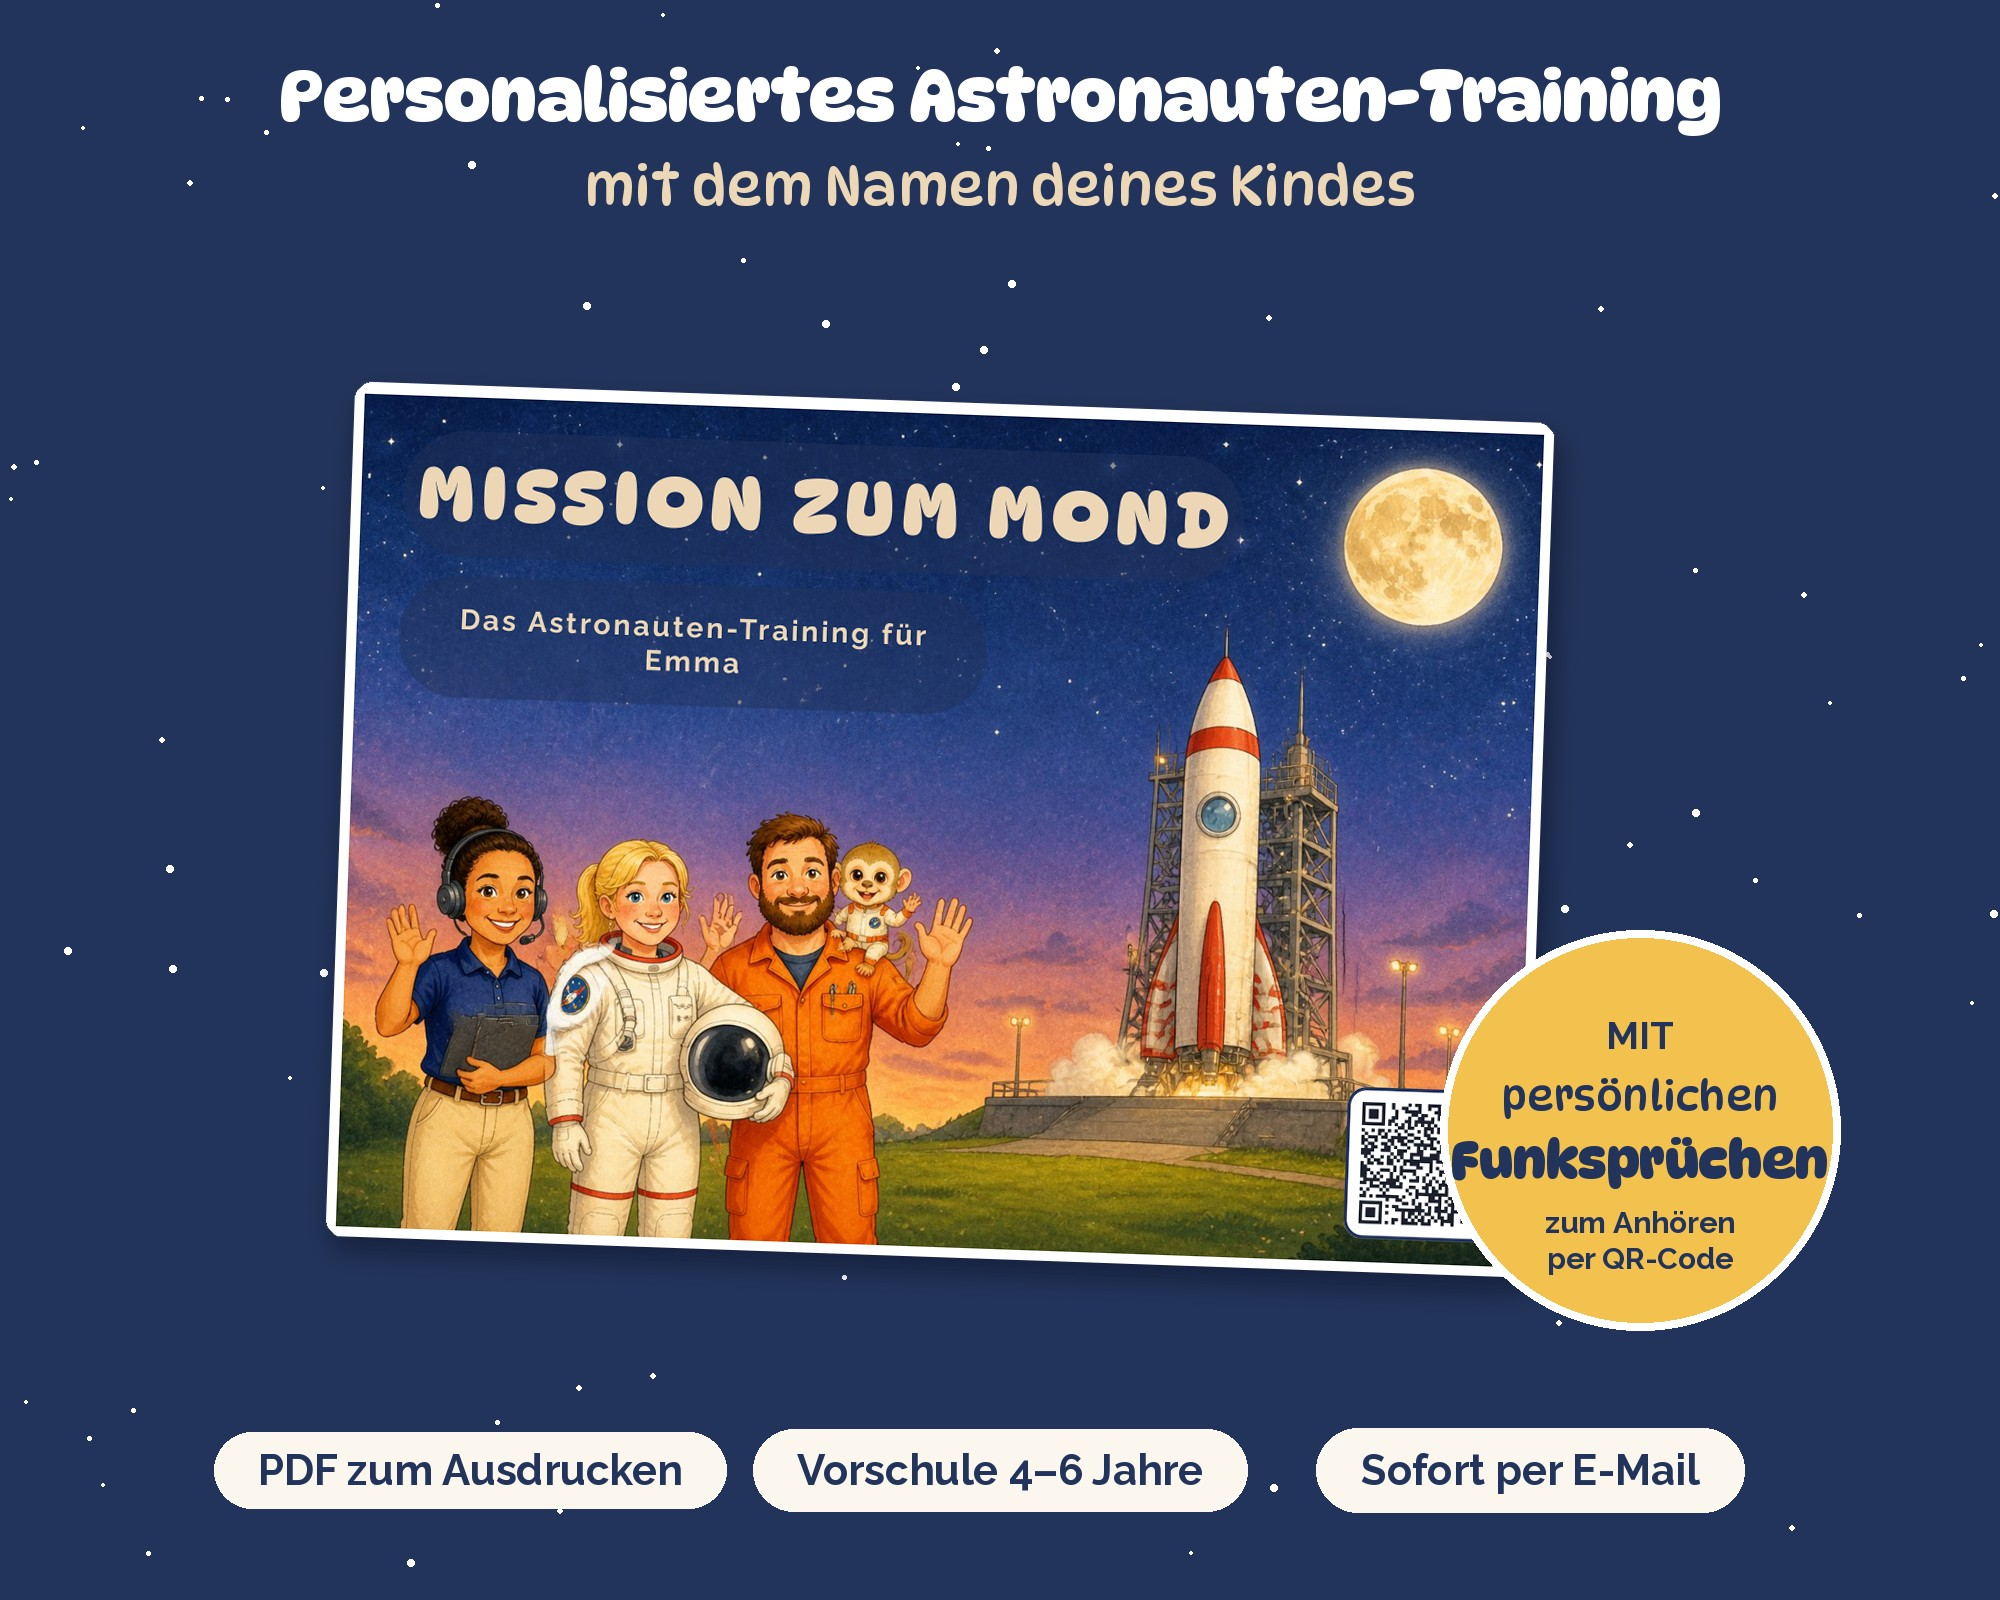
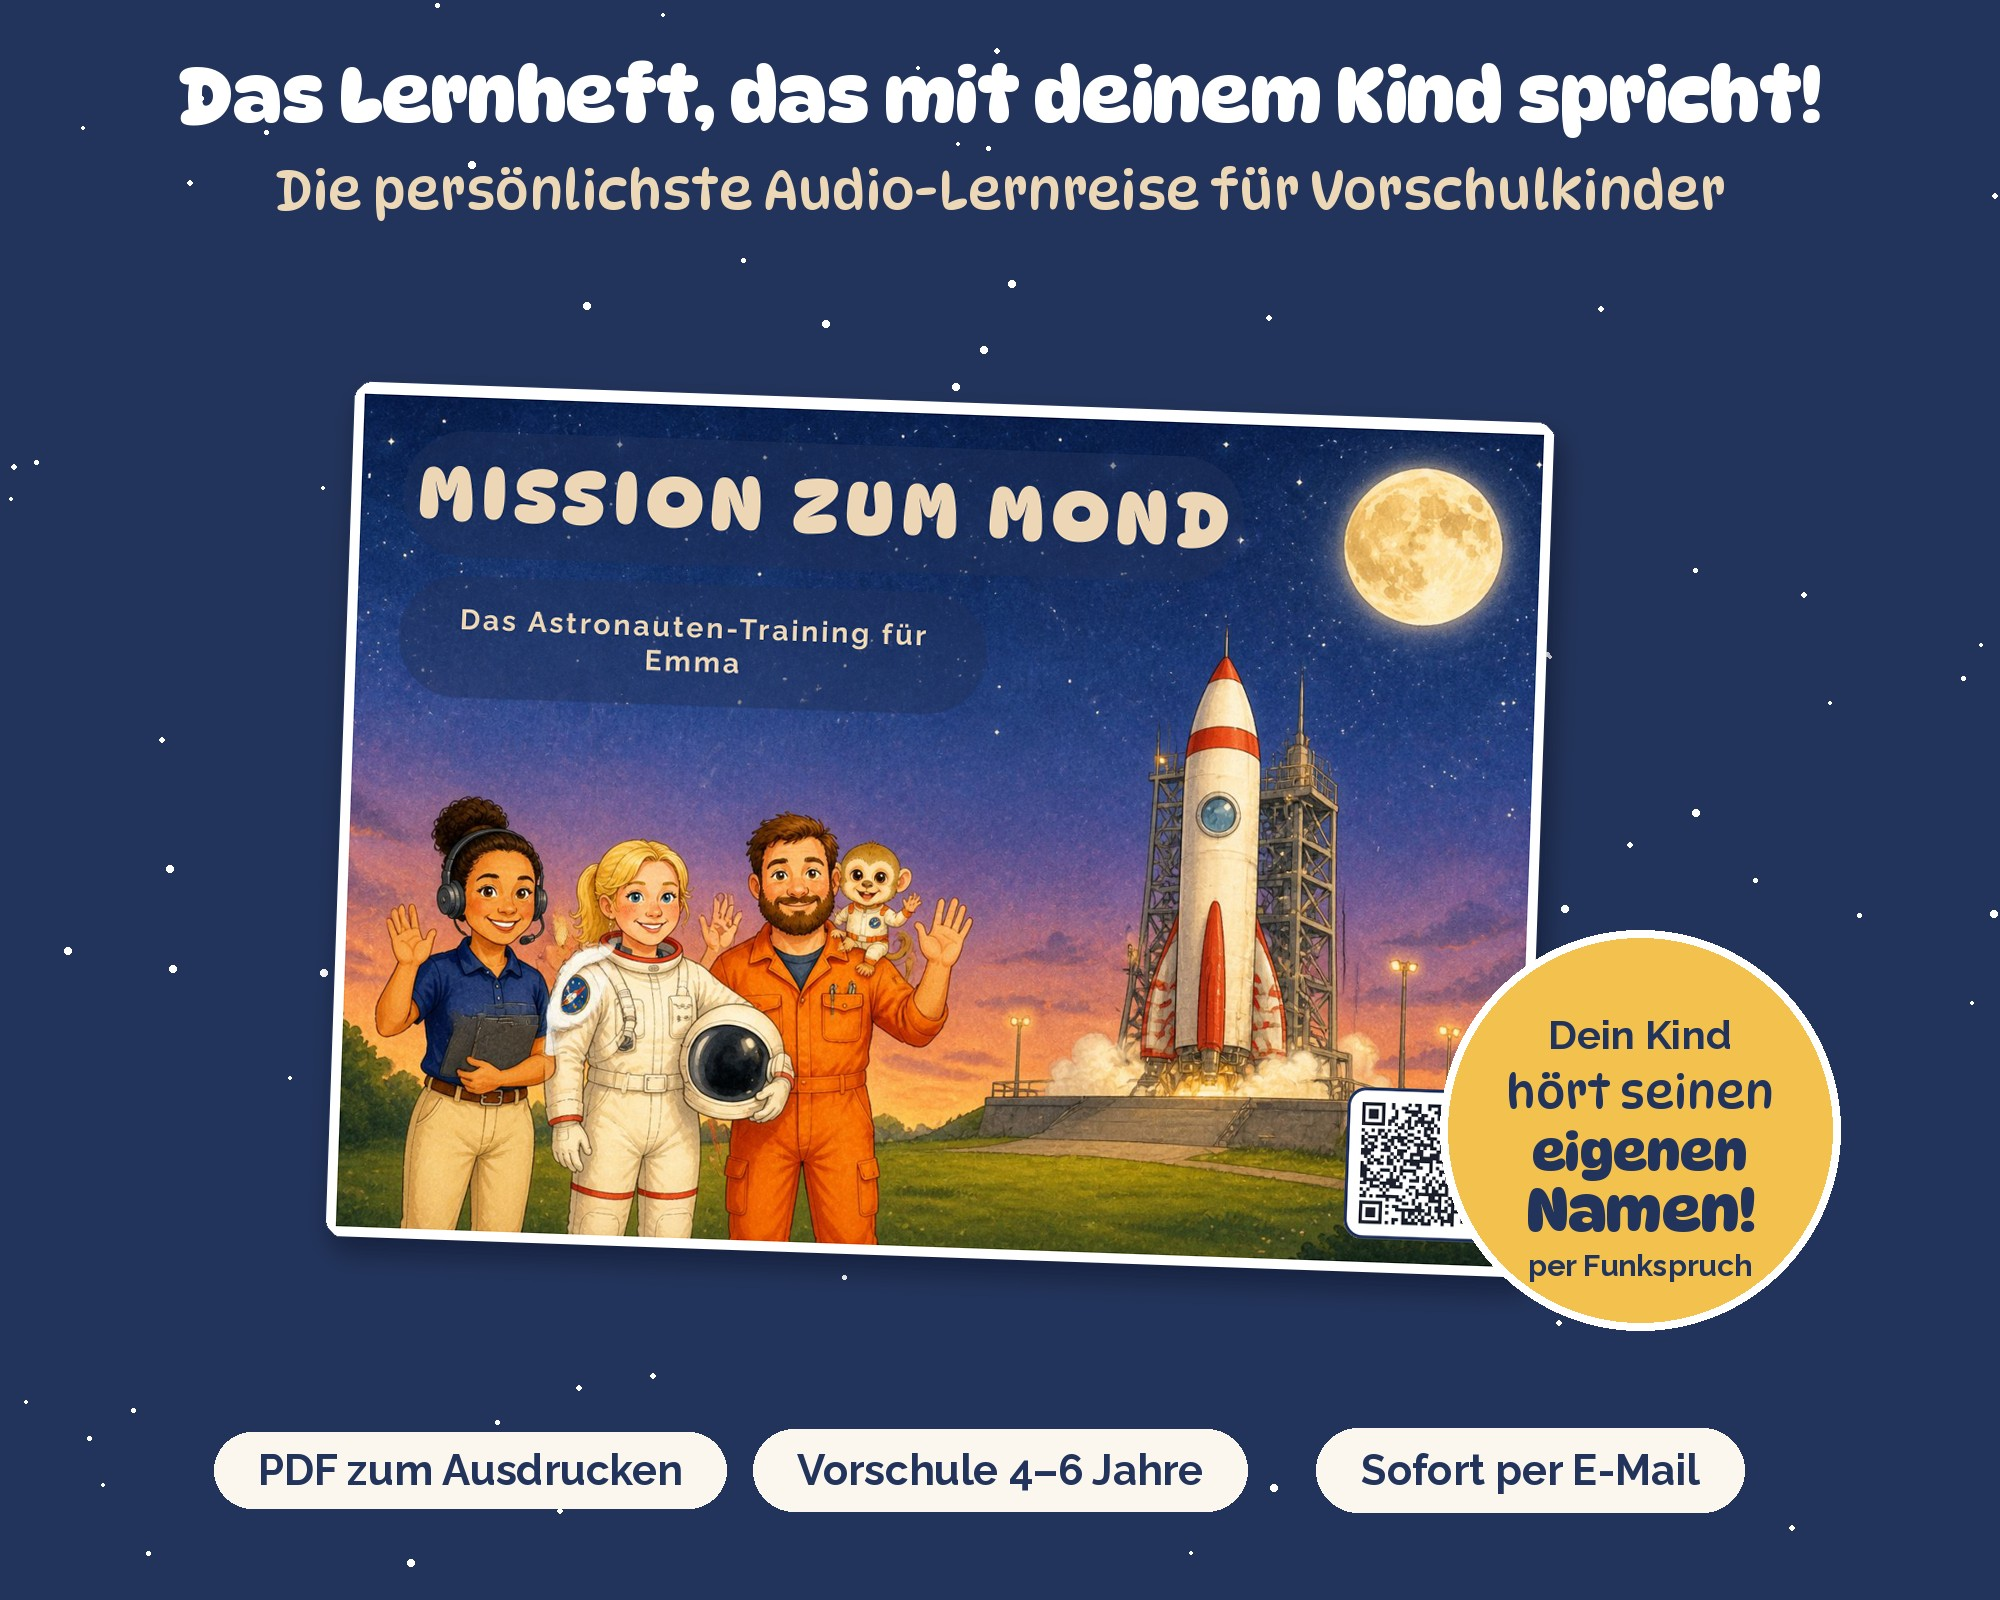
Produktbilder 1+2 offensiver, alte Bilder und Texte archiviert
Claude-Session: https://claude.ai/code/session_01Fv7kgqmVzJsR8sVHWfZhPD

Changed region(s): [[0.093, 0.0312, 0.93, 0.1562], [0.713, 0.625, 0.93, 0.8125]]

diff --git a/tools/etsy/archiv_2026-11-06/texte_alt.md b/tools/etsy/archiv_2026-11-06/texte_alt.md
@@ -1,0 +1,55 @@
+# Etsy-Artikel: „Mission zum Mond“ – Astronauten-Training (Stand 06.11.2026)
+
+## Titel (133/140 Zeichen – enthält das Schlüsselwort „Mission zum Mond“, kein „Alpaka“/„Wald“/„Weihnachtsbäckerei“)
+Personalisiertes Lernheft Mission zum Mond mit Namen & Audio | Astronauten-Training Vorschule 4–6 Jahre | PDF zum Ausdrucken Weltraum
+
+## Preis (netto eintragen – Etsy schlägt 19 % MwSt drauf)
+- Artikel: 5,80 € → Käufer sehen 6,90 €
+- Keine Audio-Option: die persönlichen Funksprüche sind immer dabei (Audio-Variante aus dem duplizierten Artikel löschen)
+
+## Beschreibung
+🚀 Mission zum Mond: das Astronauten-Training, in dem DEIN Kind die Hauptrolle spielt – mit seinem Namen im Heft und persönlichen Funksprüchen zum Anhören!
+
+Commanderin Mila, Pilotin Sarah und Mechaniker Sam bereiten dein Kind auf den Flug zum Mond vor. Auf jeder Seite wartet eine Aufgabe – und ein QR-Code. Einmal mit dem Handy scannen, und die Bodenstation meldet sich mit dem Namen deines Kindes. Spielerisch lernen für die Vorschule: Zahlen, Buchstaben, Formen, Konzentration und echtes Wissen über Raumfahrt – ganz ohne Zauberei.
+
+✨ So funktioniert's
+1. Gib beim Kauf den Vornamen deines Kindes ein und wähle „Junge“ oder „Mädchen“.
+2. Trag deine E-Mail-Adresse ein – dorthin schicken wir das Heft.
+3. Wir erstellen alles automatisch und schicken es dir in der Regel innerhalb von 30 Minuten per E-Mail (Absender: info@abenteuerweltchen.de).
+4. Ausdrucken, QR-Code auf der Titelseite scannen – und los geht die Mission!
+
+📦 Du bekommst
+• Personalisiertes Lernheft als PDF (18 Seiten, DIN A4 quer)
+• 15 Stationen: Ausrüstungs-Check, Countdown, Blick auf die Erde, Instrumentenbrett, Signal-Lichter, Anfangslaute, Mondlandung, Mondgestein, Rückflug und mehr
+• 17 Funksprüche zum Anhören (per QR-Code im Heft) – persönlich mit dem Namen deines Kindes eingesprochen
+• Astronauten-Ausweis: den eigenen Namen nachspuren und schreiben lernen
+• Eigenes Sternbild mit dem Anfangsbuchstaben deines Kindes
+• Astronauten-Urkunde mit Namen
+• Elternseite mit Tipps
+
+🎧 Die Funksprüche
+Jede Seite hat ihren eigenen Funkspruch von Mila, Sarah oder Sam. Sie sprechen dein Kind mit Namen an, erklären die Aufgabe und loben am Ende. Du brauchst nur ein Handy oder Tablet – keine App, kein Konto.
+
+👧👦 Eckdaten
+• 4–6 Jahre (Vorschule)
+• 15 Stationen, je ca. 5–10 Minuten – in einem Rutsch oder über mehrere Tage
+• Für Jungen und Mädchen (die Funksprüche passen sich an: Kadett/Kadettin)
+• Ausdrucken in Farbe oder Schwarz-Weiß
+
+⚠ Digitales Produkt: Es wird nichts per Post verschickt. Bitte prüfe die Schreibweise des Namens und deine E-Mail-Adresse genau. Keine Mail bekommen? Schau bitte im Spam-Ordner nach oder schreib uns über Etsy – wir helfen sofort!
+Nur für den privaten Gebrauch. Bitte Link und QR-Codes nicht weitergeben.
+
+## 13 Tags (je max. 20 Zeichen)
+vorschule lernheft · weltraum kinder · astronaut kinder · vorschulheft · lernheft mit namen · personalisiert kind · geschenk vorschule · rakete kinder · mond kinder · schulkind geschenk · lernspiel 5 jahre · namen schreiben · buchstaben lernen
+
+## Personalisierung
+Durch Duplizieren des Weihnachts-Artikels (4600311411): Vorname des Kindes · Geschlecht des Kindes (Junge/Mädchen) · E-Mail-Adresse. Die Audio-Option entfernen.
+
+## Sofort-Download
+Willkommen_Mission-zum-Mond.pdf
+
+## Fotos
+9 Bilder aus `mond_etsy_bilder.py` (Reihenfolge 01–09, Funksprüche an Platz 2).
+
+## Kategorie / Eigenschaften
+Wie die Schatzsuchen (Digitaler Download). Altersgruppe: Kleinkinder/Vorschule. Anlass: z. B. Einschulung/Geburtstag.
